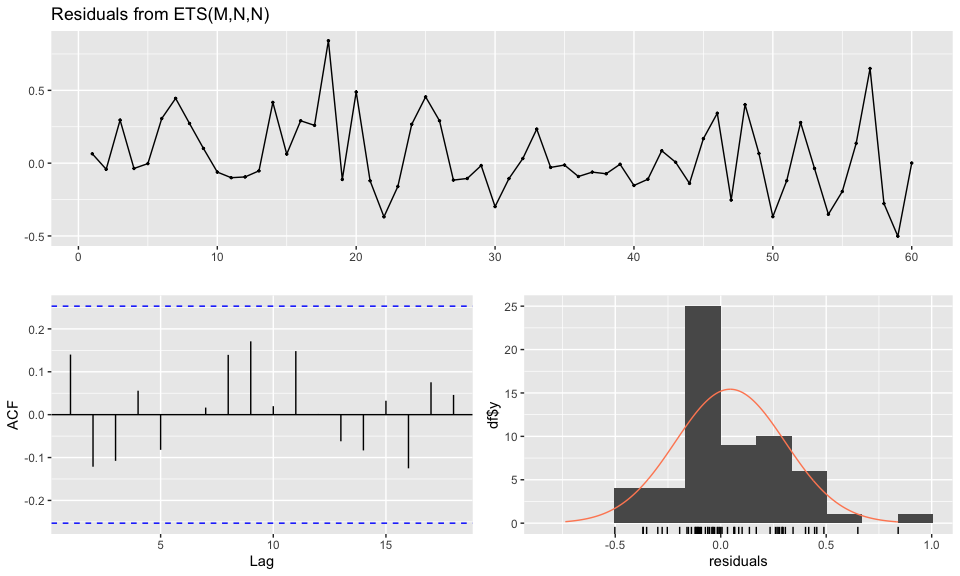
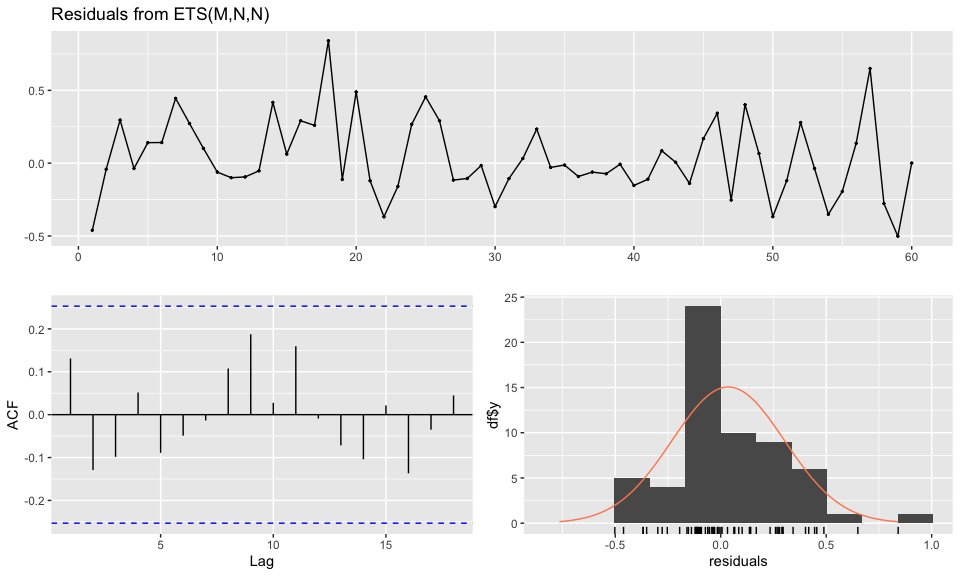
formatting

diff --git a/kenai_sockeye_counts.md b/kenai_sockeye_counts.md
@@ -195,7 +195,7 @@ tidy(ets_model) |>
 
 | method     |     aic | sigma2 |  loglik |
 |:-----------|--------:|-------:|--------:|
-| ETS(M,N,N) | 1327.55 |   0.07 | -660.78 |
+| ETS(M,N,N) | 1331.39 |   0.07 | -662.69 |
 
 ETS Model Summary
 
@@ -210,7 +210,7 @@ checkresiduals(ets_model)
     ##  Ljung-Box test
     ## 
     ## data:  Residuals from ETS(M,N,N)
-    ## Q* = 7.1753, df = 10, p-value = 0.7088
+    ## Q* = 7.1243, df = 10, p-value = 0.7137
     ## 
     ## Model df: 0.   Total lags used: 10
 
@@ -316,8 +316,7 @@ checkresiduals(historical_ets)
 
 ## Adaptive Prediction System
 
-This is the core innovation: we create predictions that adapt based on
-2025 performance.
+Create predictions that adapt based on 2025 performance.
 
 ``` r
 # Enhanced predictions that incorporate 2025 data
@@ -406,11 +405,11 @@ predicted_peaks_updated |>
 
 | peak_rank | date_2025 | month_day | predicted_count | adjusted_prediction | data_status |
 |---:|:---|:---|---:|---:|:---|
-| 1 | 2025-07-27 | 07-27 | 91783 | 208626 | Future prediction |
-| 2 | 2025-07-21 | 07-21 | 82692 | 187962 | Future prediction |
-| 3 | 2025-07-28 | 07-28 | 81110 | 184367 | Future prediction |
-| 4 | 2025-07-22 | 07-22 | 72706 | 165263 | Future prediction |
-| 5 | 2025-07-29 | 07-29 | 72585 | 164989 | Future prediction |
+| 1 | 2025-07-27 | 07-27 | 91783 | 203807 | Future prediction |
+| 2 | 2025-07-21 | 07-21 | 82692 | 183620 | Future prediction |
+| 3 | 2025-07-28 | 07-28 | 81110 | 180108 | Future prediction |
+| 4 | 2025-07-22 | 07-22 | 72706 | 161445 | Future prediction |
+| 5 | 2025-07-29 | 07-29 | 72585 | 161177 | Future prediction |
 
 Top 5 Predicted Peak Days for 2025
 
@@ -420,8 +419,8 @@ Top 5 Predicted Peak Days for 2025
 
 ## Daily-Updated Forecast Plot
 
-This is the main result: a daily-updated forecast that shows historical
-patterns, actual 2025 data, and adjusted predictions.
+A daily-updated forecast that shows historical patterns, actual 2025
+data, and adjusted predictions.
 
 ``` r
 # Enhanced visualization
@@ -618,6 +617,6 @@ kable(true_accuracy_metrics)
 
 | n_observations | mean_abs_error | median_abs_error | mean_pct_error | rmse |
 |---------------:|---------------:|-----------------:|---------------:|-----:|
-|              4 |           7427 |             5596 |           50.7 | 9577 |
+|              5 |           7583 |             7734 |           51.9 | 9319 |
 
 ------------------------------------------------------------------------
